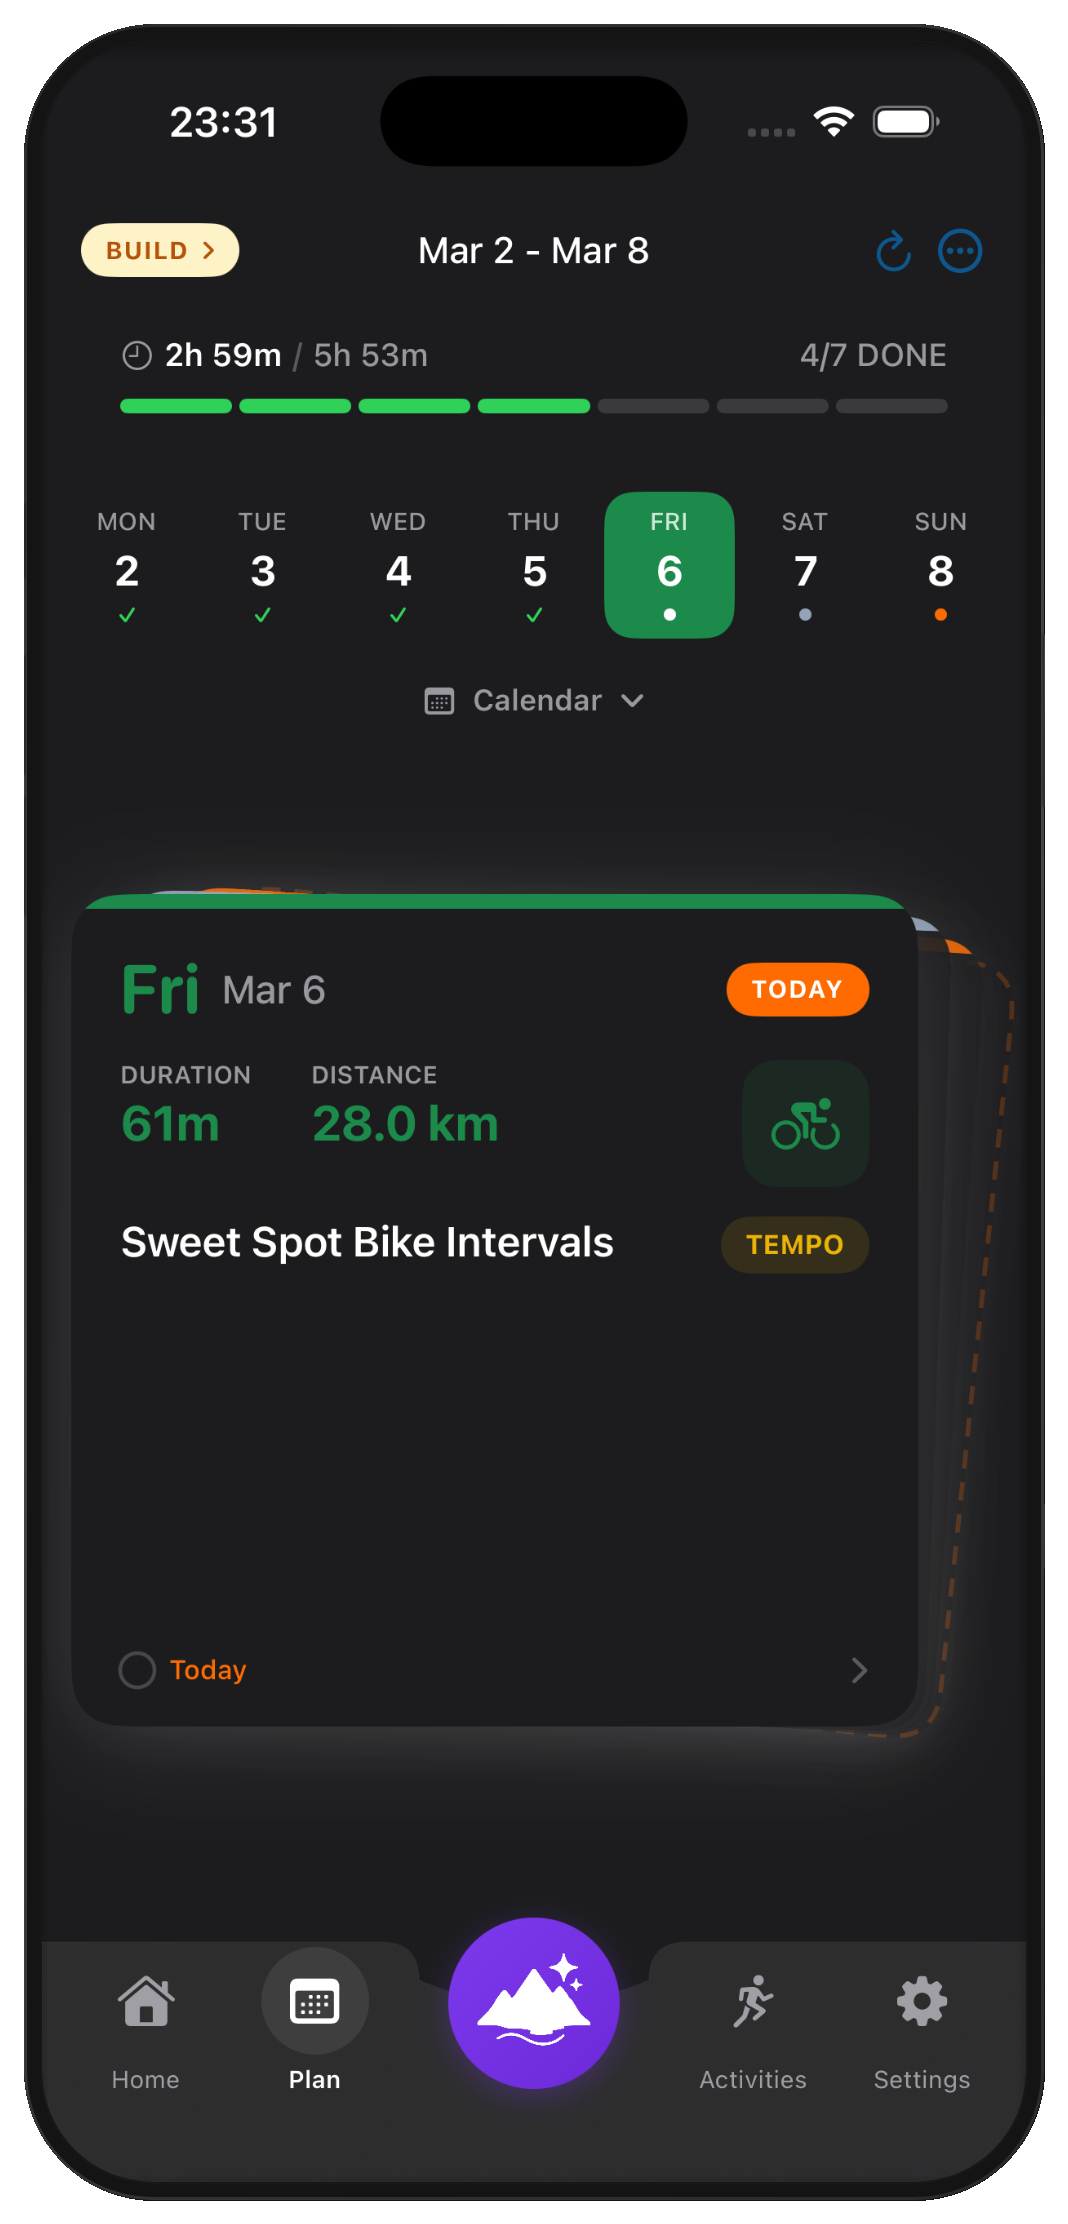
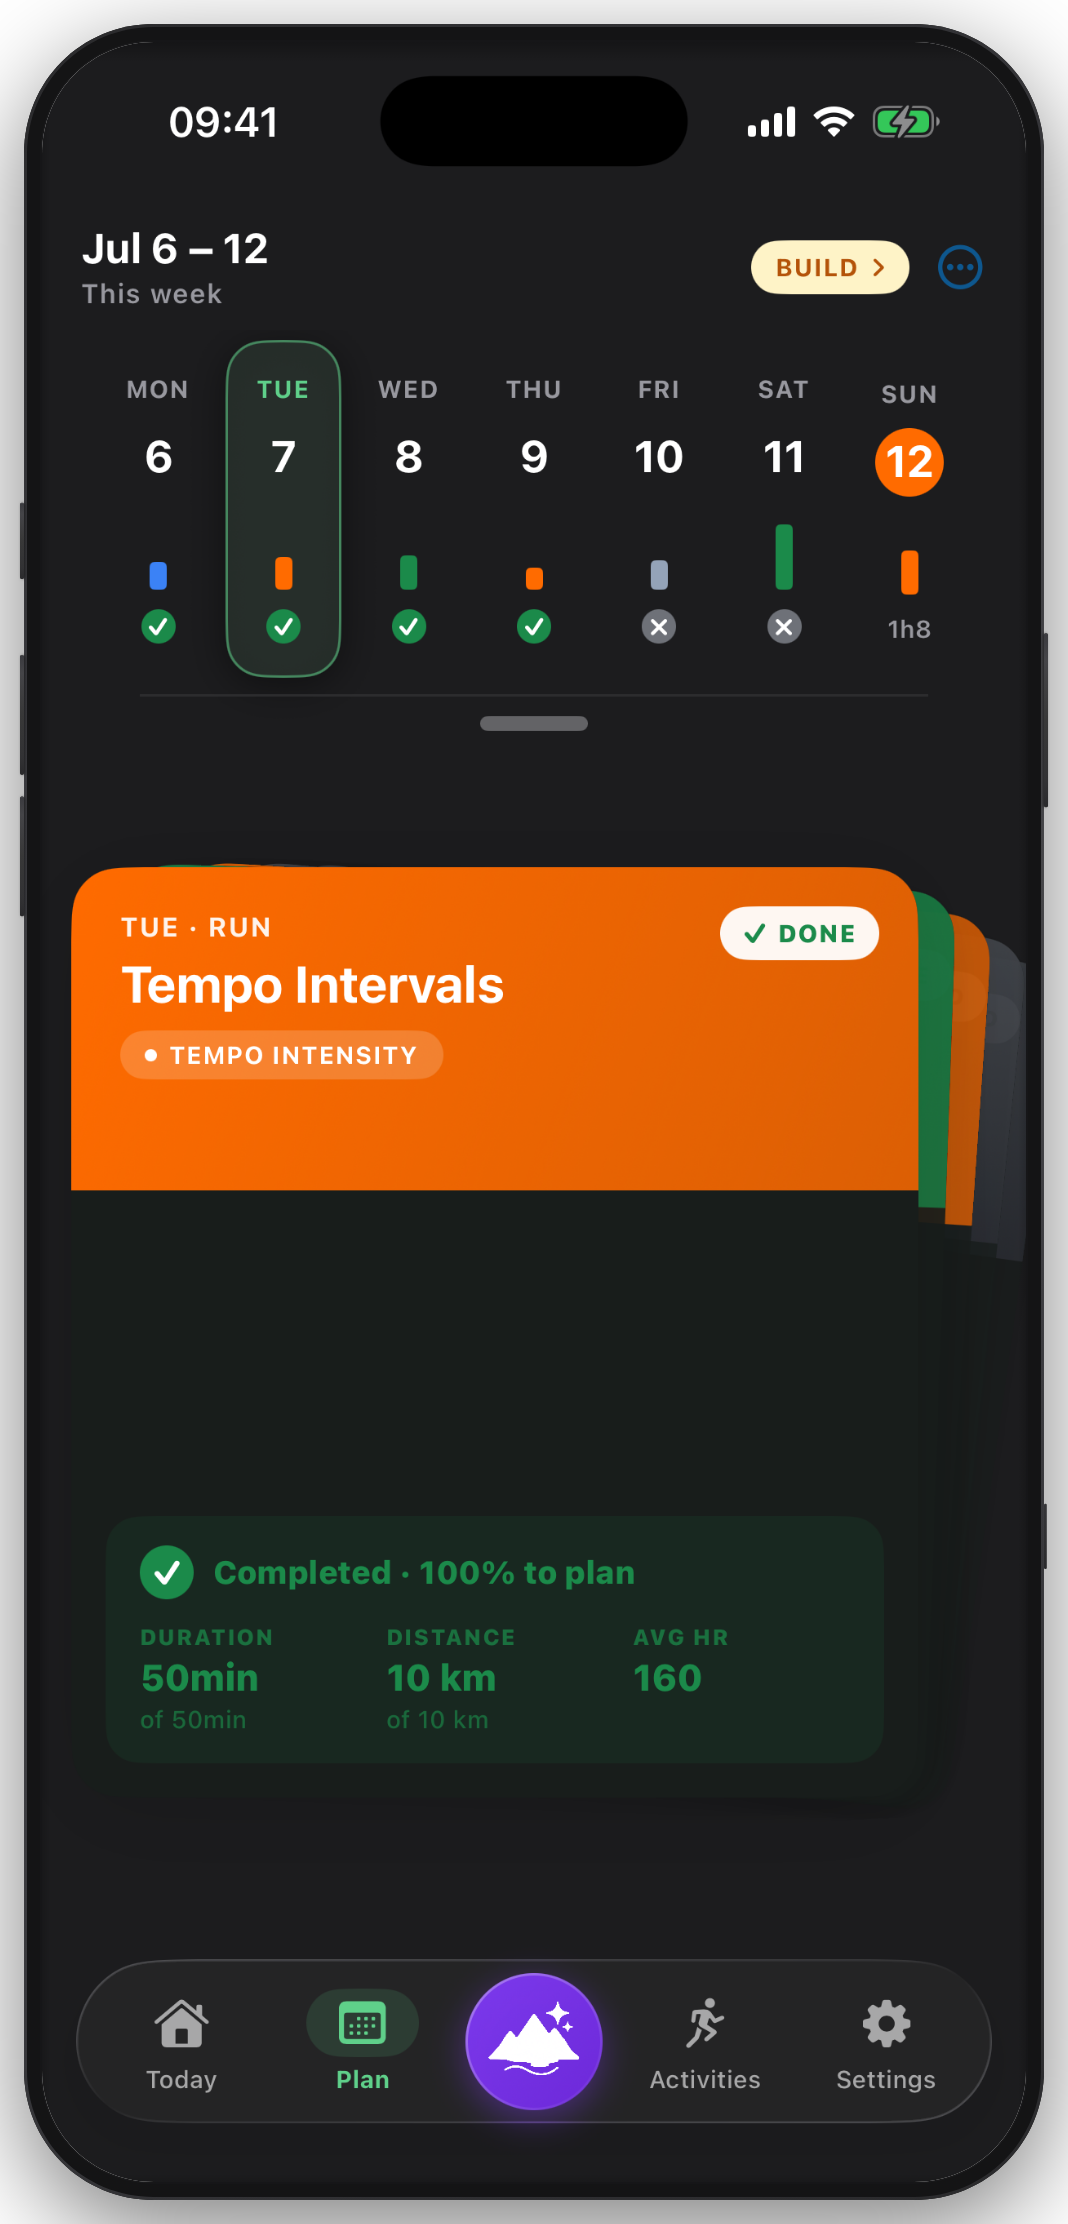
Refresh framed app screenshots (#7)
* chore: refresh framed app screenshots (2026-07-12)

* fix: align captions and alt text with the refreshed screenshots

Codex P2 on PR #7: phone-04 is now a Sunday long run session, but the Step 2
caption and alt texts still described the old Sweet Spot / 6x800m interval
shots. Updated all captions/alts that referenced the previous screenshot
content (phone-02 tempo run card, phone-03 score 90 long run, phone-04 long
run session, phone-06 triathlon phase timeline).

diff --git a/features.html b/features.html
@@ -57,7 +57,7 @@
           </ul>
         </div>
         <div class="feature-media phone-wrap">
-          <img src="img/app/framed/phone-02.png" alt="Weekly plan view with calendar and Sweet Spot Bike Intervals card">
+          <img src="img/app/framed/phone-02.png" alt="Weekly plan view with calendar and a completed Tempo Intervals run card">
         </div>
       </div>
     </div>
@@ -77,7 +77,7 @@
           </ul>
         </div>
         <div class="feature-media phone-wrap">
-          <img src="img/app/framed/phone-03.png" alt="Activity Insights screen showing execution quality score of 85 for a Sweet Spot ride">
+          <img src="img/app/framed/phone-03.png" alt="Activity Insights screen showing execution quality score of 90 for a progressive long run">
         </div>
       </div>
     </div>
@@ -97,7 +97,7 @@
           </ul>
         </div>
         <div class="feature-media phone-wrap">
-          <img src="img/app/framed/phone-04.png" alt="Structured workout view showing Sweet Spot Bike Intervals with warm-up, 3× intervals, and cool-down">
+          <img src="img/app/framed/phone-04.png" alt="Structured workout view of a long run with warm-up, progressive intervals, and cool-down pace targets">
         </div>
       </div>
     </div>
@@ -137,7 +137,7 @@
           </ul>
         </div>
         <div class="feature-media phone-wrap">
-          <img src="img/app/framed/phone-06.png" alt="Training phases view with Base, Build, Peak, Recovery across 11 weeks">
+          <img src="img/app/framed/phone-06.png" alt="Training phases timeline for a triathlon goal with Base completed and Build as the current phase">
         </div>
       </div>
     </div>

diff --git a/index.html b/index.html
@@ -143,7 +143,7 @@
             <div class="how-caption">Onboarding · 4 questions, no quiz</div>
           </div>
           <div class="how-row-media">
-            <img class="how-phone" src="img/app/framed/phone-02.png" alt="Triple Peaks weekly plan view with calendar and a Sweet Spot Bike Intervals card">
+            <img class="how-phone" src="img/app/framed/phone-02.png" alt="Triple Peaks weekly plan view with calendar and a Tempo Intervals run card">
           </div>
         </div>
 
@@ -154,7 +154,7 @@
             <span class="eyebrow">Step 2 · every session</span>
             <h3>Every workout tells you why.</h3>
             <p>One plain-English sentence before each session: why this pace, why today, what it's building. You'll start to get it.</p>
-            <div class="how-caption">Tuesday's workout · 6×800m at 4:25</div>
+            <div class="how-caption">Sunday's long run · 12 km, built step by step</div>
           </div>
           <div class="how-row-media">
             <img class="how-phone" src="img/app/framed/phone-04.png" alt="Structured workout view showing warm-up, intervals, and cool-down with target paces">
